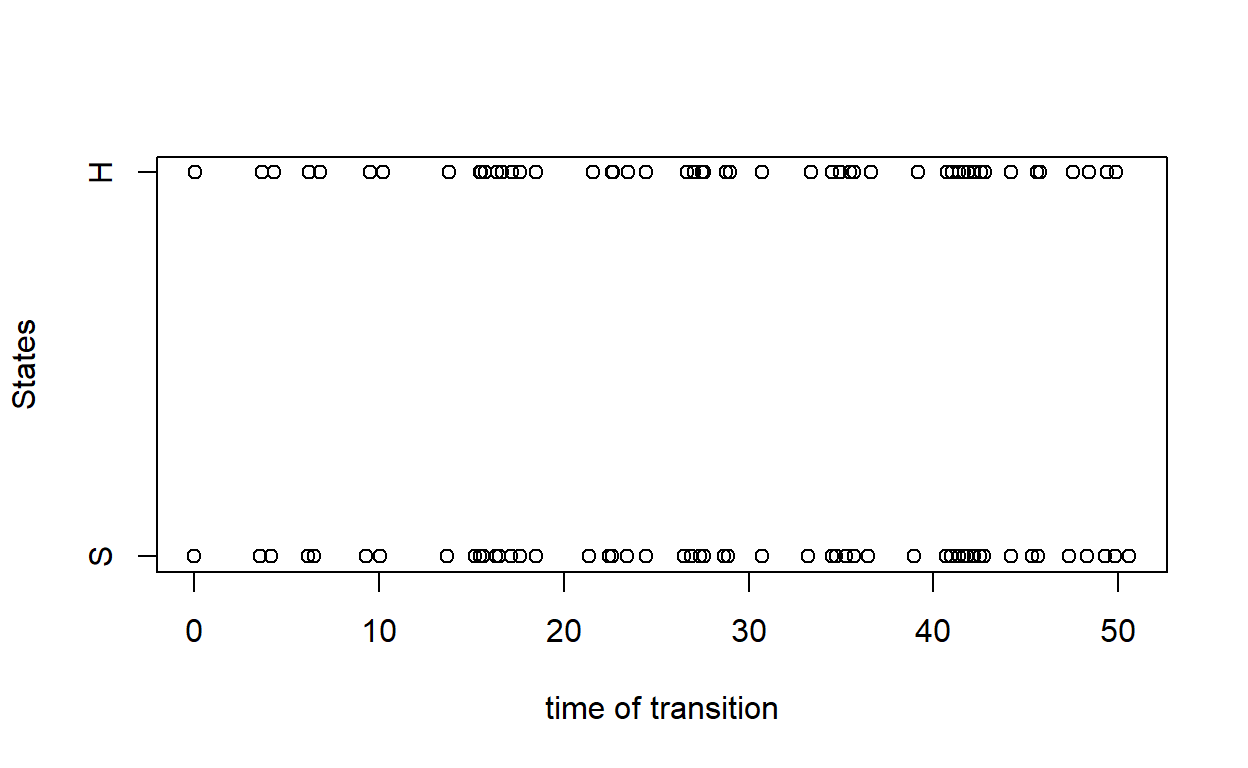
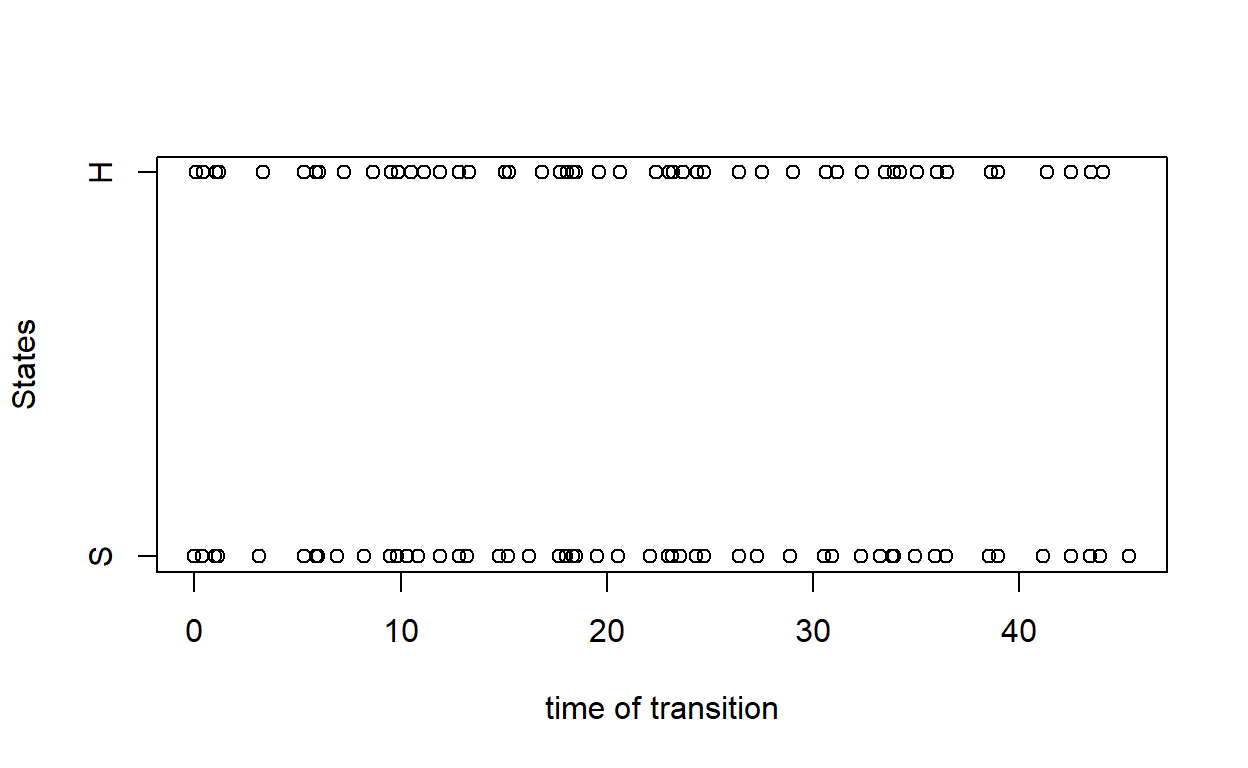
Add exercise setup to markovchains tutorial

diff --git a/inst/tutorials/markovchains/markovchains.html b/inst/tutorials/markovchains/markovchains.html
@@ -317,8 +317,21 @@ weather_mc &lt;- new(&quot;ctmc&quot;, states = weather_states,
 <ol style="list-style-type: decimal">
 <li>In the long run, what is the proportion of time where the weather in City X is sunny?</li>
 </ol>
+<div class="tutorial-exercise-support" data-label="weatherSetup" data-caption="Code" data-completion="1" data-diagnostics="1" data-startover="1" data-lines="0">
+<pre class="text"><code>weather_states &lt;- c(&quot;S&quot;, &quot;R&quot;, &quot;C&quot;)
+
+weather_tran&lt;- matrix(data = c(
+  -0.1, 0.08, 0.02,
+  0.35, -0.5, 0.15,
+  0.2,0.2,-0.4), 
+  nrow = 3, byrow = TRUE, dimnames = list(weather_states, weather_states))
+
+weather_mc &lt;- new(&quot;ctmc&quot;, states = weather_states, 
+                 byrow = TRUE, generator = weather_tran, 
+                 name = &quot;Sunny-Cloudy-Rainy&quot;)</code></pre>
+</div>
 <div class="tutorial-exercise" data-label="mcprop" data-caption="Code" data-completion="1" data-diagnostics="1" data-startover="1" data-lines="2">
-<script type="application/json" data-opts-chunk="1">{"fig.width":6.5,"fig.height":4,"fig.retina":2,"fig.align":"default","fig.keep":"high","fig.show":"asis","out.width":624,"warning":true,"error":false,"message":true,"exercise.df_print":"paged","exercise.timelimit":60,"exercise.checker":"NULL"}</script>
+<script type="application/json" data-opts-chunk="1">{"fig.width":6.5,"fig.height":4,"fig.retina":2,"fig.align":"default","fig.keep":"high","fig.show":"asis","out.width":624,"warning":true,"error":false,"message":true,"exercise.df_print":"paged","exercise.timelimit":60,"exercise.setup":"weatherSetup","exercise.checker":"NULL"}</script>
 </div>
 <div class="tutorial-exercise-support" data-label="mcprop-solution" data-caption="Code" data-completion="1" data-diagnostics="1" data-startover="1" data-lines="0">
 <pre class="text"><code>steadyStates(weather_mc)</code></pre>
@@ -349,28 +362,29 @@ weather_mc &lt;- new(&quot;ctmc&quot;, states = weather_states,
 <p>The <code>rctmc</code> function allows one to simulate MC transitions. Now let’s use the two-state Health-Sick model, and the following <code>R</code> codes will simulate the transition from time 0 to 20. Here one needs to state the MC object in the <code>ctmc</code> argument, and also provide the length of time in the <code>T</code> argument. While the <code>T</code> argument is used, one needs to set <code>n</code> to be <code>Inf</code>. Here, <code>n</code> represents the number of samples to generate.</p>
 <pre class="r"><code>rctmc(n = Inf, ctmc = health_mc, T = 20)</code></pre>
 <pre><code>## [[1]]
-##  [1] &quot;H&quot; &quot;S&quot; &quot;H&quot; &quot;S&quot; &quot;H&quot; &quot;S&quot; &quot;H&quot; &quot;S&quot; &quot;H&quot; &quot;S&quot; &quot;H&quot; &quot;S&quot; &quot;H&quot; &quot;S&quot; &quot;H&quot; &quot;S&quot; &quot;H&quot; &quot;S&quot; &quot;H&quot;
-## [20] &quot;S&quot; &quot;H&quot; &quot;S&quot; &quot;H&quot; &quot;S&quot; &quot;H&quot; &quot;S&quot; &quot;H&quot; &quot;S&quot; &quot;H&quot; &quot;S&quot; &quot;H&quot; &quot;S&quot; &quot;H&quot; &quot;S&quot; &quot;H&quot;
+##  [1] &quot;S&quot; &quot;H&quot; &quot;S&quot; &quot;H&quot; &quot;S&quot; &quot;H&quot; &quot;S&quot; &quot;H&quot; &quot;S&quot; &quot;H&quot; &quot;S&quot; &quot;H&quot; &quot;S&quot; &quot;H&quot; &quot;S&quot; &quot;H&quot; &quot;S&quot; &quot;H&quot; &quot;S&quot;
+## [20] &quot;H&quot; &quot;S&quot; &quot;H&quot; &quot;S&quot; &quot;H&quot; &quot;S&quot; &quot;H&quot; &quot;S&quot; &quot;H&quot; &quot;S&quot; &quot;H&quot; &quot;S&quot; &quot;H&quot; &quot;S&quot; &quot;H&quot; &quot;S&quot; &quot;H&quot;
 ## 
 ## [[2]]
-##  [1]  0.000000  2.120158  2.180476  2.293866  2.325359  2.781892  2.880565
-##  [8]  3.409367  3.454812  4.012687  4.342412  4.869878  4.877317  5.181808
-## [15]  5.237168  6.811976  7.087378 11.531425 11.557385 11.878329 11.920968
-## [22] 14.890462 14.957114 16.410733 16.635459 17.364387 17.364559 18.273530
-## [29] 18.403374 18.786686 19.051930 19.470140 19.481686 19.802759 19.824497</code></pre>
+##  [1]  0.00000000  0.01342017  0.09216401  0.82472095  1.37151244  1.49690937
+##  [7]  1.82742811  2.38374738  2.72271052  2.84332826  3.39041999  3.41889988
+## [13]  5.43837778  5.50849231  6.21506730  6.22083202  6.46770463  6.49610320
+## [19]  7.22737497  7.23368964  8.02013496  8.23343931  9.60696040  9.70359166
+## [25] 12.21256829 12.24138422 15.13676218 15.26758478 15.43056127 15.47435498
+## [31] 16.27009917 16.36856000 16.66799716 16.81851107 17.39553214 17.57756853</code></pre>
 <p>Alternatively, one can specify the number of transitions (that is, <code>n</code>). In this case, <code>T</code> is no longer required. Furthermore, one can also provide the distribution of the initial states.</p>
 <pre class="r"><code>rctmc(n = 5, ctmc = health_mc, initDist = c(0.2, 0.8), include.T0 = FALSE)</code></pre>
 <pre><code>## [[1]]
-## [1] &quot;H&quot; &quot;S&quot; &quot;H&quot; &quot;S&quot; &quot;H&quot;
+## [1] &quot;S&quot; &quot;H&quot; &quot;S&quot; &quot;H&quot; &quot;S&quot;
 ## 
 ## [[2]]
-## [1] 0.1452139 1.5519588 1.6539635 1.8081630 1.9551513</code></pre>
+## [1] 0.0472524 0.1114997 1.5852668 1.6441199 2.5801560</code></pre>
 <pre class="r"><code>rctmc(n = 5, ctmc = health_mc, initDist = c(0.2, 0.8), include.T0 = TRUE)</code></pre>
 <pre><code>## [[1]]
 ## [1] &quot;S&quot; &quot;H&quot; &quot;S&quot; &quot;H&quot; &quot;S&quot; &quot;H&quot;
 ## 
 ## [[2]]
-## [1] 0.0000000 0.1045207 1.9947182 2.0989753 3.1228403 3.1730292</code></pre>
+## [1] 0.00000000 0.01301934 1.19047796 1.25147474 2.40796532 2.48687845</code></pre>
 <p>If we choose <code>include.T0 = FALSE</code>, then the output will start from the first transition (e.g. if the first state is S, then it means at that time there is a transition from H to S); if <code>include.T0 = TRUE</code> is used, then the output will start from time 0 (that is, the output will show the first state at time 0).</p>
 <p>One can plot the simulated MC chain by using the <code>plot</code> function. Given that the states are not numerical, one needs to specify numerical values on the y-axis corresponding to the states. In the following example, we plot H and S states at 2 and 1.</p>
 <pre class="r"><code>health_simu &lt;- rctmc(n = 100, ctmc = health_mc, initDist = c(0.2, 0.8), include.T0 = TRUE)
@@ -397,8 +411,8 @@ health_fit$estimate</code></pre>
 ## 
 ## Slot &quot;generator&quot;:
 ##           H         S
-## H -1.104134  1.104134
-## S  9.391504 -9.391504
+## H -1.271429  1.271429
+## S  8.293485 -8.293485
 ## 
 ## Slot &quot;name&quot;:
 ## [1] &quot;&quot;</code></pre>
@@ -472,7 +486,7 @@ output$`tutorial-exercise-mcintro-output` <- renderUI({
 </script>
  
 <script type="application/shiny-prerendered" data-context="server">
-learnr:::question_prerendered_chunk(structure(list(type = "learnr_radio", label = "mcintro2", question = structure("Which one of the three states is an absorbing state?", html = TRUE, class = c("html", "character")), answers = list(structure(list(id = "lnr_ans_90a4862",     option = "Death", value = "Death", label = structure("Death", html = TRUE, class = c("html",     "character")), correct = TRUE, message = NULL), class = c("tutorial_question_answer", "tutorial_quiz_answer")), structure(list(id = "lnr_ans_1c0452d",     option = "Sickness", value = "Sickness", label = structure("Sickness", html = TRUE, class = c("html",     "character")), correct = FALSE, message = structure("Incorrect. One can move from S to H or D, hence S is not absorbing.", html = TRUE, class = c("html",     "character"))), class = c("tutorial_question_answer", "tutorial_quiz_answer")), structure(list(id = "lnr_ans_c4729a9", option = "Health",     value = "Health", label = structure("Health", html = TRUE, class = c("html",     "character")), correct = FALSE, message = structure("Incorret. One can move from H to S or D, hence H is not absorbing.", html = TRUE, class = c("html",     "character"))), class = c("tutorial_question_answer", "tutorial_quiz_answer")), structure(list(id = "lnr_ans_ffbec2a", option = "There is no absorbing state.",     value = "There is no absorbing state.", label = structure("There is no absorbing state.", html = TRUE, class = c("html",     "character")), correct = FALSE, message = structure("Incorret. D is an absorbing state since the transition rate from D to any other state is 0.", html = TRUE, class = c("html",     "character"))), class = c("tutorial_question_answer", "tutorial_quiz_answer"))), button_labels = list(submit = structure("Submit Answer", html = TRUE, class = c("html", "character")), try_again = structure("Try Again", html = TRUE, class = c("html", "character"))), messages = list(correct = structure("Correct!", html = TRUE, class = c("html", "character")), try_again = structure("Incorrect", html = TRUE, class = c("html", "character")), incorrect = structure("Incorrect", html = TRUE, class = c("html", "character")), message = NULL, post_message = NULL), ids = list(    answer = "mcintro2-answer", question = "mcintro2"), loading = structure("<strong>Loading:<\u002fstrong> \nWhich one of the three states is an absorbing state?\n<br/><br/><br/>", html = TRUE, class = c("html", "character")), random_answer_order = FALSE, allow_retry = TRUE,     seed = 2046516721.54702, options = list()), class = c("learnr_radio", "tutorial_question")))
+learnr:::question_prerendered_chunk(structure(list(type = "learnr_radio", label = "mcintro2", question = structure("Which one of the three states is an absorbing state?", html = TRUE, class = c("html", "character")), answers = list(structure(list(id = "lnr_ans_33144c2",     option = "Death", value = "Death", label = structure("Death", html = TRUE, class = c("html",     "character")), correct = TRUE, message = NULL), class = c("tutorial_question_answer", "tutorial_quiz_answer")), structure(list(id = "lnr_ans_a0bb559",     option = "Sickness", value = "Sickness", label = structure("Sickness", html = TRUE, class = c("html",     "character")), correct = FALSE, message = structure("Incorrect. One can move from S to H or D, hence S is not absorbing.", html = TRUE, class = c("html",     "character"))), class = c("tutorial_question_answer", "tutorial_quiz_answer")), structure(list(id = "lnr_ans_1589f2e", option = "Health",     value = "Health", label = structure("Health", html = TRUE, class = c("html",     "character")), correct = FALSE, message = structure("Incorret. One can move from H to S or D, hence H is not absorbing.", html = TRUE, class = c("html",     "character"))), class = c("tutorial_question_answer", "tutorial_quiz_answer")), structure(list(id = "lnr_ans_38ddcb", option = "There is no absorbing state.",     value = "There is no absorbing state.", label = structure("There is no absorbing state.", html = TRUE, class = c("html",     "character")), correct = FALSE, message = structure("Incorret. D is an absorbing state since the transition rate from D to any other state is 0.", html = TRUE, class = c("html",     "character"))), class = c("tutorial_question_answer", "tutorial_quiz_answer"))), button_labels = list(submit = structure("Submit Answer", html = TRUE, class = c("html", "character")), try_again = structure("Try Again", html = TRUE, class = c("html", "character"))), messages = list(correct = structure("Correct!", html = TRUE, class = c("html", "character")), try_again = structure("Incorrect", html = TRUE, class = c("html", "character")), incorrect = structure("Incorrect", html = TRUE, class = c("html", "character")), message = NULL, post_message = NULL), ids = list(    answer = "mcintro2-answer", question = "mcintro2"), loading = structure("<strong>Loading:<\u002fstrong> \nWhich one of the three states is an absorbing state?\n<br/><br/><br/>", html = TRUE, class = c("html", "character")), random_answer_order = FALSE, allow_retry = TRUE,     seed = 1323127912.38387, options = list()), class = c("learnr_radio", "tutorial_question")))
 </script>
  
 <script type="application/shiny-prerendered" data-context="server">
@@ -483,7 +497,7 @@ output$`tutorial-exercise-mcprop-output` <- renderUI({
 </script>
  
 <script type="application/shiny-prerendered" data-context="server">
-learnr:::question_prerendered_chunk(structure(list(type = "learnr_radio", label = "mcprop2", question = structure("Which one of the following statements is correct?", html = TRUE, class = c("html", "character")), answers = list(structure(list(id = "lnr_ans_928c904",     option = "Given that the weather is sunny right now, the probability that it will be sunny for 3 days is 82.68973%",     value = "Given that the weather is sunny right now, the probability that it will be sunny for 3 days is 82.68973%",     label = structure("Given that the weather is sunny right now, the probability that it will be sunny for 3 days is 82.68973%", html = TRUE, class = c("html",     "character")), correct = FALSE, message = structure("0.8268973 is the probability that the weather will be sunny at exactly day 3 (which includes the events that the weather can experience multiple transitions within the 3 days).", html = TRUE, class = c("html",     "character"))), class = c("tutorial_question_answer", "tutorial_quiz_answer")), structure(list(id = "lnr_ans_a862703", option = "If the weather is rainy right now, then there is a 31.00969% chance that it will be Rainy in 1 day.",     value = "If the weather is rainy right now, then there is a 31.00969% chance that it will be Rainy in 1 day.",     label = structure("If the weather is rainy right now, then there is a 31.00969% chance that it will be Rainy in 1 day.", html = TRUE, class = c("html",     "character")), correct = FALSE, message = structure("The R codes only compute the probabilities for a 3-day horizon.", html = TRUE, class = c("html",     "character"))), class = c("tutorial_question_answer", "tutorial_quiz_answer")), structure(list(id = "lnr_ans_bc7aa78", option = "If the weather is cloudy, then it is most likely that the weather will be Sunny in 3 days.",     value = "If the weather is cloudy, then it is most likely that the weather will be Sunny in 3 days.",     label = structure("If the weather is cloudy, then it is most likely that the weather will be Sunny in 3 days.", html = TRUE, class = c("html",     "character")), correct = TRUE, message = NULL), class = c("tutorial_question_answer", "tutorial_quiz_answer"))), button_labels = list(submit = structure("Submit Answer", html = TRUE, class = c("html", "character")), try_again = structure("Try Again", html = TRUE, class = c("html", "character"))), messages = list(correct = structure("Correct!", html = TRUE, class = c("html", "character")), try_again = structure("Incorrect", html = TRUE, class = c("html", "character")), incorrect = structure("Incorrect", html = TRUE, class = c("html", "character")), message = NULL, post_message = NULL), ids = list(    answer = "mcprop2-answer", question = "mcprop2"), loading = structure("<strong>Loading:<\u002fstrong> \nWhich one of the following statements is correct?\n<br/><br/><br/>", html = TRUE, class = c("html", "character")), random_answer_order = FALSE, allow_retry = TRUE,     seed = 84677457.460569, options = list()), class = c("learnr_radio", "tutorial_question")))
+learnr:::question_prerendered_chunk(structure(list(type = "learnr_radio", label = "mcprop2", question = structure("Which one of the following statements is correct?", html = TRUE, class = c("html", "character")), answers = list(structure(list(id = "lnr_ans_529d15c",     option = "Given that the weather is sunny right now, the probability that it will be sunny for 3 days is 82.68973%",     value = "Given that the weather is sunny right now, the probability that it will be sunny for 3 days is 82.68973%",     label = structure("Given that the weather is sunny right now, the probability that it will be sunny for 3 days is 82.68973%", html = TRUE, class = c("html",     "character")), correct = FALSE, message = structure("0.8268973 is the probability that the weather will be sunny at exactly day 3 (which includes the events that the weather can experience multiple transitions within the 3 days).", html = TRUE, class = c("html",     "character"))), class = c("tutorial_question_answer", "tutorial_quiz_answer")), structure(list(id = "lnr_ans_b7fb6c3", option = "If the weather is rainy right now, then there is a 31.00969% chance that it will be Rainy in 1 day.",     value = "If the weather is rainy right now, then there is a 31.00969% chance that it will be Rainy in 1 day.",     label = structure("If the weather is rainy right now, then there is a 31.00969% chance that it will be Rainy in 1 day.", html = TRUE, class = c("html",     "character")), correct = FALSE, message = structure("The R codes only compute the probabilities for a 3-day horizon.", html = TRUE, class = c("html",     "character"))), class = c("tutorial_question_answer", "tutorial_quiz_answer")), structure(list(id = "lnr_ans_efbbaf9", option = "If the weather is cloudy, then it is most likely that the weather will be Sunny in 3 days.",     value = "If the weather is cloudy, then it is most likely that the weather will be Sunny in 3 days.",     label = structure("If the weather is cloudy, then it is most likely that the weather will be Sunny in 3 days.", html = TRUE, class = c("html",     "character")), correct = TRUE, message = NULL), class = c("tutorial_question_answer", "tutorial_quiz_answer"))), button_labels = list(submit = structure("Submit Answer", html = TRUE, class = c("html", "character")), try_again = structure("Try Again", html = TRUE, class = c("html", "character"))), messages = list(correct = structure("Correct!", html = TRUE, class = c("html", "character")), try_again = structure("Incorrect", html = TRUE, class = c("html", "character")), incorrect = structure("Incorrect", html = TRUE, class = c("html", "character")), message = NULL, post_message = NULL), ids = list(    answer = "mcprop2-answer", question = "mcprop2"), loading = structure("<strong>Loading:<\u002fstrong> \nWhich one of the following statements is correct?\n<br/><br/><br/>", html = TRUE, class = c("html", "character")), random_answer_order = FALSE, allow_retry = TRUE,     seed = 1696263374.21012, options = list()), class = c("learnr_radio", "tutorial_question")))
 </script>
  
 <script type="application/shiny-prerendered" data-context="server">
